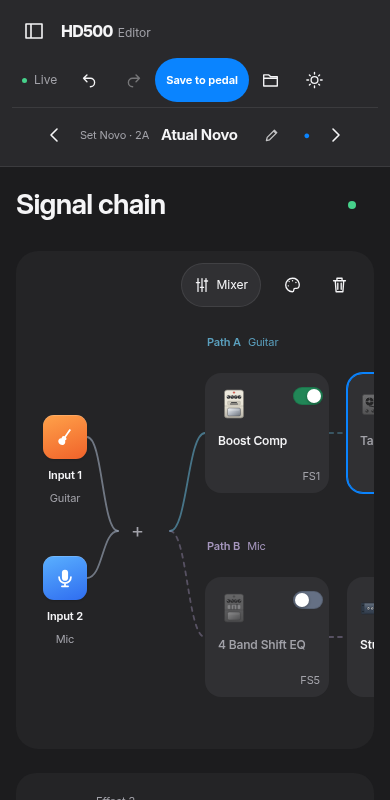
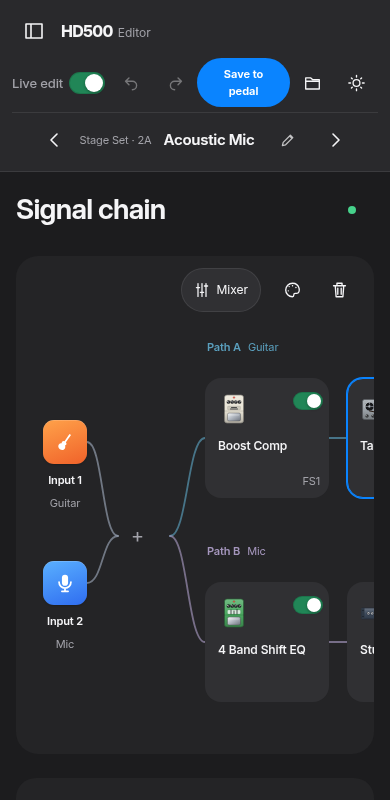
Live edit is now a proper switch in the toolbar

diff --git a/app/public/js/main.js b/app/public/js/main.js
@@ -81,7 +81,7 @@ async function init() {
 async function reconnect() { try { if(!S.cat) S.cat=await api('catalog'); await load(await api('reconnect', {})); } catch (e) { fail(e); } }
 
 // ---- topo
-$('#live').onclick = () => { liveEdits.setLive(!liveEdits.live); $('#live').setAttribute('aria-pressed', String(liveEdits.live)); $('#live').title = liveEdits.live ? 'Edits go to the pedal while you drag. Save still writes to its memory.' : 'Edits go to the pedal when you release the control.'; };
+$('#live').onclick = () => { liveEdits.setLive(!liveEdits.live); $('#live').setAttribute('aria-checked', String(liveEdits.live)); $('#live').title = liveEdits.live ? 'Edits go to the pedal while you drag. Save still writes to its memory.' : 'Edits go to the pedal when you release the control.'; };
 initSidebar();
 const step = d => { if(S.st?.connected) return selectSlot(undefined, (S.st.selection.preset + d + S.cat.presets) % S.cat.presets); };
 $('#prev').onclick = () => step(-1); $('#next').onclick = () => step(1);

diff --git a/app/public/index.html b/app/public/index.html
@@ -17,7 +17,7 @@
     <button id="next" class="icon" aria-label="Next preset" title="Next preset (→)"></button>
   </nav>
   <div class="actions">
-    <button id="live" class="live-pill" aria-pressed="true" title="Edits go to the pedal while you drag. Save still writes to its memory."><i></i><span>Live edit</span></button>
+    <span class="live-toggle"><label for="live">Live edit</label><button id="live" class="switch" role="switch" aria-checked="true" aria-label="Live edit" title="Edits go to the pedal while you drag. Save still writes to its memory."></button></span>
     <button id="undo" class="icon" title="Undo (Ctrl+Z)" aria-label="Undo"></button>
     <button id="redo" class="icon" title="Redo (Ctrl+Y)" aria-label="Redo"></button>
     <button id="revert" class="icon" title="Discards changes and reloads the preset stored in the pedal" aria-label="Discard" hidden></button>

diff --git a/app/public/css/app.css b/app/public/css/app.css
@@ -2033,3 +2033,6 @@ main { gap:28px; padding:32px; }
 #tabs.tabs button[aria-selected=true] .symbol { color:var(--accent); }
 #tabs.tabs button:focus-visible { outline:2px solid var(--accent); outline-offset:-2px; }
 @media (max-width:420px) { #tabs.tabs button { font-size:10.5px; } }
+
+.live-toggle { display:inline-flex; align-items:center; gap:2px; }
+.live-toggle label { font:500 13px var(--font-text); color:var(--dim); cursor:pointer; white-space:nowrap; }
